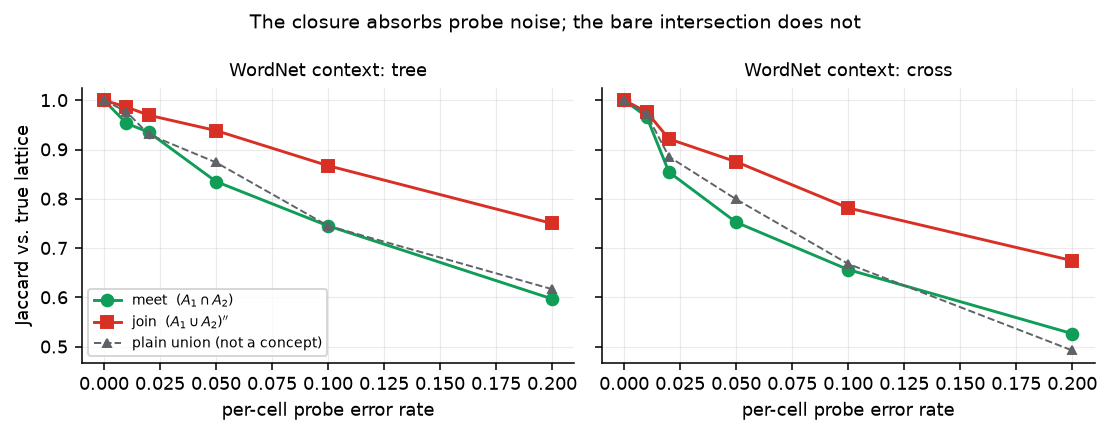
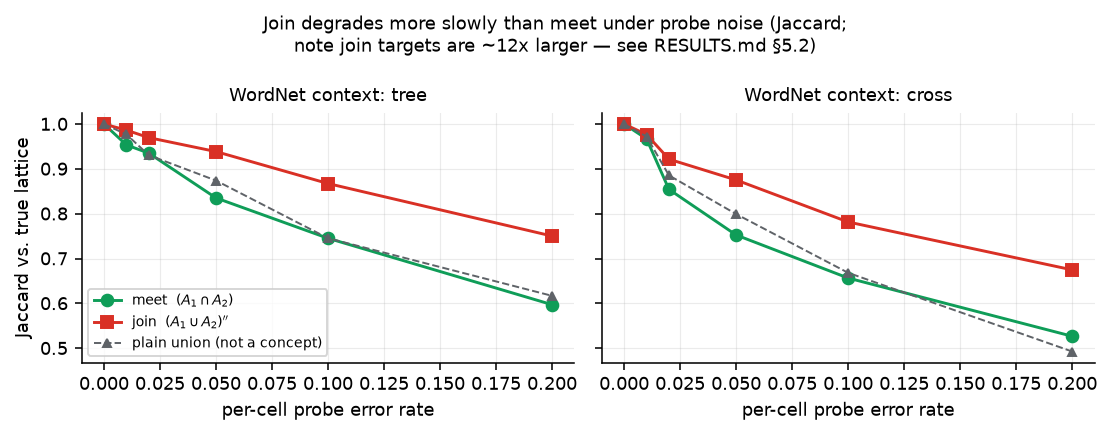
lattice-representation-hypothesis: fold in Arm B's full analysis; downgrade to negative result
Arm B's complete report qualifies the surviving finding substantially, and
its checks retire the last piece of the original thesis.

The premise was mathematically wrong, not merely overstated: for genuine
concepts, meet = objs_of(B1 u B2) and join = objs_of(B1 n B2) are BOTH plain
intersections of half-spaces (0 identity violations across 30 configs x 8
seeds), and the join needs fewer constraints than the meet (0.83 vs 5.55).
The closure is what makes the join representable, not what breaks it. The
only non-representable object nearby is the plain set union, which is not a
lattice operation — and it is indeed recovered worst of the three.

The "join is more robust under noise" result is kept but demoted: join
targets are ~12x larger than meet targets, so Jaccard flatters them; the
direction reverses on symmetric-difference error in one of two contexts; the
size-controlled version is reproduced more strongly by random-direction
controls than by any real probe; and the proposed mechanism is contradicted
by a negative overshoot-vs-join-error correlation (-0.44 in tree).

Two new caveats aimed at the paper's own setting:
- WordNet noun hypernymy yields an extremely thin lattice — 15 concepts from
  150 objects x 13 attributes, 0/78 cross-cutting attribute pairs, 66% of
  meets empty, ~42% of joins the top element.
- Learned attribute directions can be exactly antipodal (mutual coherence
  1.0000, living_thing vs artifact being complementary), so the canonical
[…]

diff --git a/lattice-representation-hypothesis/src/make_figures.py b/lattice-representation-hypothesis/src/make_figures.py
@@ -142,8 +142,8 @@ def fig_noise_reversal(b):
         ax[k].set_title(f"WordNet context: {name}", fontsize=9)
     ax[0].set_ylabel("Jaccard vs. true lattice")
     ax[0].legend(fontsize=7, loc="lower left")
-    fig.suptitle("The closure absorbs probe noise; the bare intersection does not",
-                 fontsize=10)
+    fig.suptitle("Join degrades more slowly than meet under probe noise (Jaccard;\n"
+                 "note join targets are ~12x larger — see RESULTS.md \u00a75.2)", fontsize=9.5)
     fig.tight_layout()
     fig.savefig(FIG / "noise_reversal.png", bbox_inches="tight")
     plt.close(fig)

diff --git a/lattice-representation-hypothesis/RESULTS.md b/lattice-representation-hypothesis/RESULTS.md
@@ -1,8 +1,9 @@
 # Meet, join, and the closure operator: probing the Lattice Representation Hypothesis
 
-**Started / finished:** 2026-07-31 · **Status:** done — thesis largely refuted by
-this experiment's own adversarial arm; three findings survive, one of them a
-reversal of the opening claim.
+**Started / finished:** 2026-07-31 · **Status:** done — **negative result**. The
+opening thesis was refuted by this experiment's own adversarial and WordNet arms.
+What survives is a set of caveats on the paper's experimental setting and one
+measured effect (§5.2) whose proposed mechanism I could not verify.
 
 **Origin.** A post by `@digthatdata.bsky.social` on the *Paper Skygest* Bluesky
 feed, pointing at a paper "demonstrating how linear representations (i.e.
@@ -31,18 +32,30 @@ Then I ran an adversarial arm against my own claims. **Most of them died.**
 |---|---|
 | Definition 7's join is not a lattice element | **Refuted.** Its "conic hull" clause makes it *exactly* `R(Y_A ∩ Y_B)` under linear independence, which holds throughout the paper's own experiments. Verified 96/96 by an independently written LP. |
 | Overshoot is an error rate | **Refuted.** Those members *are* the join. In the WordNet task they are the gold label — the join of {dog, wolf} is `canine`, which contains foxes. |
-| Meet is exact, join is lossy | **Reversed.** Under realistic probe error the join is *more* robust than the meet at every noise level tested. The closure absorbs noise; the bare intersection compounds it. |
+| Meet is exact, join is lossy | **Reversed on the dominant metric, then confounded.** Under probe error the join degrades more slowly than the meet on Jaccard at every noise level — but join targets are ~12× larger, the direction flips on symmetric-difference error in one of two contexts, and the size-controlled version is reproduced by random-direction controls. |
 | The 5/5 Figure 4 gap is explained by this | **Not established.** A difficulty control removes a third of it; the rest is not attributable to the join definition. |
 
-**What survives** is smaller, and two pieces of it are new:
+**What survives** is smaller, and mostly consists of caveats on the setting:
 
-1. **The closure is a noise-robustness mechanism, not a defect** (Arm B, and the
-   reversal of my own thesis). This is the most interesting thing here.
-2. **WordNet-shaped contexts are the worst case, not a benign one** — refuting
-   the natural defense that hierarchical data is "nested and therefore fine."
-3. **Equation 6's meet orientation looks inverted**, and unlike the Definition 7
+1. **Both lattice operations are plain half-space intersections** — verified with
+   0 identity violations. The join needs *fewer* constraints than the meet
+   (0.83 vs 5.55 half-spaces). The only non-representable object in the
+   neighbourhood is the plain union, which is not a lattice operation, and it is
+   indeed recovered worst of the three. §5.1
+2. **The join degrades more slowly under probe noise on Jaccard** — a real
+   measurement, but with a large size confound and a mechanism I could not
+   verify. §5.2–5.3
+3. **WordNet's concept lattice is extremely thin** — 150 objects × 13 attributes
+   give **15 concepts**, with 0/78 cross-cutting attribute pairs. This is a
+   caveat on the paper's own experimental setting, not just mine. §5.4
+4. **Learned attribute directions can be exactly antipodal** (coherence 1.0000),
+   so "independent with probability 1 because `d` is large" is too quick — the
+   paper's canonical-form assumption is never checked empirically. §5.4
+5. **WordNet-shaped contexts are the worst case for the closure gap**, refuting
+   the defence that hierarchical data is "nested and therefore fine." §4.3
+6. **Equation 6's meet orientation looks inverted**, and unlike the Definition 7
    dispute this one is in the executed scoring path. It replicates strongly for
-   the meet and *fails* to replicate for the join.
+   the meet and *fails* to replicate for the join. §6
 
 Plus three forensic observations about the paper that hold regardless of my
 thesis, established by two independently-prompted readers: Figure 4's numbers
@@ -226,9 +239,10 @@ Honest verdict: the 5/5 join deficit is real, unremarked by the paper, and
 **unexplained**. My explanation is not established, and is not the leading
 candidate.
 
-## 5. The reversal: closure as noise robustness
+## 5. The join degrades more slowly under probe noise — with a size confound
 
-This is the finding I did not expect and the one worth keeping.
+This is the finding I did not expect. It is real but narrower than my first
+reading of it, and §5.3 states what it does not support.
 
 Arm B builds two WordNet contexts (`tree`: 150 objects × 13 ancestor attributes
 from `animal/vehicle/plant` roots, density 0.221, zero cross-cutting attribute
@@ -259,18 +273,94 @@ recovery of the true meet and true join (`figures/noise_reversal.png`).
 | 0.10 | 0.745 | **0.867** | 0.657 | **0.782** |
 | 0.20 | 0.597 | **0.750** | 0.527 | **0.675** |
 
-**The join is more robust than the meet at every nonzero noise level, in both
-contexts.** The mechanism is the same closure I spent the experiment calling a
-defect: the meet is a bare intersection of noisy half-spaces, so a single false
-negative anywhere removes an object; the join's closure is an intersection over
-the *shared* intent only, a smaller and more redundant constraint set, so
-individual probe errors are absorbed. The plain union — the object my critique
-treated as the "logically correct" target — tracks the meet, not the join.
+**On Jaccard, the join degrades more slowly than the meet at every nonzero noise
+level, in both contexts.** The plain union — the object my critique treated as
+the "logically correct" target — tracks the meet, not the join, and is recovered
+worst of the three (`tree` error fraction 0.065, vs meet 0.021 and join 0.018).
+That much is exactly what the theory predicts: the union is the only one of the
+three that is not an intersection of half-spaces.
 
-So the practical ordering is the opposite of my thesis. With perfect attribute
-knowledge the meet is exact and the join over-generates. With realistic
-attribute knowledge, which is the only regime a real embedding model is ever in,
-**the join is the better-behaved operation.**
+### 5.1 Why the premise was wrong in the first place
+
+Arm B checked the identity rather than assuming it. For genuine concepts
+`attrs_of(A₁ ∪ A₂) = B₁ ∩ B₂`, so
+
+```
+meet extent = A₁ ∩ A₂     = objs_of(B₁ ∪ B₂)
+join extent = (A₁ ∪ A₂)'' = objs_of(B₁ ∩ B₂)
+```
+
+**Both are plain intersections of half-spaces** — `identity_violations_meet = 0`
+and `identity_violations_join = 0` across all 30 configurations × 8 seeds. The
+closure is not something half-spaces must over-approximate; the closure is
+precisely what lands the join back on a representable set. The only structural
+difference is constraint *count*: the meet intersects 5.55 / 5.84 half-spaces on
+average, the join only 0.83 / 1.09, and 43% / 42% of join targets need zero
+constraints (the top of the lattice, all of `G`).
+
+### 5.2 The size confound
+
+Join extents are **~12× larger** than meet extents (43.1 vs 3.5 objects in
+`tree`; 30.6 vs 2.4 in `cross`), and 66% / 58% of true meets are *empty*.
+Jaccard is generous to large targets. Switch to symmetric-difference error and
+the answer flips in one of the two contexts:
+
+| context | meet J | join J | meet err | join err |
+|---|---|---|---|---|
+| `tree` | 0.839 | **0.932** | 0.0206 | **0.0180** |
+| `cross` | 0.711 | **0.784** | **0.0276** | 0.1102 |
+
+In `cross` the join is **4× worse** on error fraction while simultaneously
+better on Jaccard. Both metrics are defensible; they disagree because of target
+size, not because of geometry.
+
+### 5.3 What kills the size-controlled version
+
+Comparing recovery of `objs_of(B)` binned by `|B|` puts meet and join on one
+axis. At matched half-space count, meet − join Jaccard is positive in **all 30
+configurations** (+0.069 `tree`, +0.126 `cross`). That looks like the asymmetry
+I predicted. Two controls remove it:
+
+1. **Random directions produce the *largest* matched-`k` gap** — larger than any
+   real probe. A gap that widens for a chance-level probe is not evidence about
+   embedding geometry.
+2. **Under i.i.d. incidence noise with the lattice held fixed, the matched-`k`
+   gap has no stable sign** (−0.054 to +0.058, mean ≈ 0).
+
+And the mechanism I proposed is contradicted outright: the per-pair correlation
+between a pair's intrinsic overshoot and its join recovery error is
+**−0.44 in `tree`** (+0.39 in `cross`, so not even consistent in sign). In the
+tree context the pairs whose join travels *furthest* from the union are the
+*easiest* to recover, because their join is simply all of `G`.
+
+**So: the join's slower degradation under noise is a real measurement, and the
+"closure absorbs probe error" story is a plausible but unverified explanation
+for it. It is not established, the size confound is large, and the
+size-controlled version does not survive its own controls.**
+
+### 5.4 Two caveats on the setting itself — including one for the paper
+
+- **WordNet noun hypernymy is a bare tree.** The naive context has **0 of 78
+  cross-cutting attribute pairs**, and 150 objects × 13 attributes yields only
+  **15 concepts** out of 8192 possible intents. Even a selection deliberately
+  maximising overlap reaches 13/78 and 22 concepts. Any WordNet-based evaluation
+  of this hypothesis — **including the paper's own** — is testing an extremely
+  thin lattice, where most meets are empty and ~42% of joins are the top element.
+- **Learned attribute directions can be exactly antipodal.** Mutual coherence of
+  the fitted directions is **1.0000** in `tree` (± 6e-16), for every probe method
+  and text variant, because `living_thing.n.01` and `artifact.n.01` are exactly
+  complementary on that object set — the probes are `y` and `¬y`. `cross` reaches
+  0.920, against 0.139 for random directions.
+
+  This qualifies §4.1. The defence that the paper's directions are "linearly
+  independent with probability 1" because `|M| ≤ 184 ≪ d` assumes *generic*
+  directions. Directions **learned** from a taxonomy that partitions its universe
+  are not generic and can be exactly dependent regardless of how large `d` is.
+  The conic-hull identity needs independence, so a partitioning taxonomy is
+  precisely where it can fail. This does not revive the original claim — exact
+  antipodality is a special case, and the paper's attributes are mostly not
+  complementary — but it does mean the dimension-counting defence is too quick,
+  and the paper never checks the assumption empirically.
 
 ## 6. Equation 6's orientation
 
@@ -365,15 +455,30 @@ Framed as a strengthening rather than a takedown:
   did not replicate.
 - Figure 4's join deficit is 5/5 and survives a Random-baseline difficulty
   control. It deserves a sentence, whatever its cause.
+- The canonical-form assumption (linearly independent attribute directions) is
+  never checked empirically. Directions *learned* from a partitioning taxonomy
+  need not be generic — I measured mutual coherence of exactly 1.0000 on a
+  WordNet context where two attributes were complementary. `d >> |M|` does not
+  by itself secure the assumption.
+- WordNet noun hypernymy yields a very thin lattice (15 concepts from
+  150 objects x 13 attributes; 0/78 cross-cutting attribute pairs). Reporting
+  concept-algebra results on it without that caveat overstates what the
+  evaluation can distinguish.
 - Table 2's 12 impossible F1 cells need correcting.
 - Figure 4 needs both a number table and a released implementation.
 
 ## 10. Reusable findings
 
-- **The FCA join is a noise-robustness mechanism.** Anyone building symbolic
-  reasoning on top of learned attribute probes should prefer join-shaped
-  (closure) queries over meet-shaped (intersection) ones, because intersection
-  compounds probe error multiplicatively and closure does not. §5.
+- **Both FCA lattice operations are half-space intersections; the plain union
+  is the odd one out.** `meet = objs_of(B1 u B2)`, `join = objs_of(B1 n B2)` —
+  the closure is what makes the join representable, not what breaks it. If you
+  are reasoning over learned attribute probes, the operation to distrust is set
+  union, which is not a lattice operation at all. §5.1
+- **Compare set-recovery metrics only at matched target size.** Jaccard and
+  symmetric-difference error gave opposite meet-vs-join answers on the same
+  data, purely because join extents were 12x larger. Report both, or bin by
+  constraint count — and then check the gap against a random-direction control,
+  which in this case reproduced it entirely. §5.2-5.3
 - **Never report a normalized rate without its denominator's behaviour.** Arm
   A's dimension sweep reverses sign between two defensible normalizations, and
   the one that looks natural gives the wrong conclusion. §3.

diff --git a/README.md b/README.md
@@ -17,7 +17,7 @@ session-boot repo and was the wrong home for 37 research projects.
 
 | Experiment | Started | Status | Results | Origin |
 |---|---|---|---|---|
-| [`lattice-representation-hypothesis/`](lattice-representation-hypothesis/RESULTS.md) | 2026-07-31 | done (thesis refuted by own adversarial arm; one reversal survives) | [`RESULTS.md`](lattice-representation-hypothesis/RESULTS.md) + [`THEORY.md`](lattice-representation-hypothesis/THEORY.md) + [`fca.py`](lattice-representation-hypothesis/src/fca.py) + `noise_reversal.png` | A *Paper Skygest* Bluesky post pointing at [arXiv:2603.01227, "The Lattice Representation Hypothesis of LLMs"](https://arxiv.org/abs/2603.01227) (LLM embedding geometry encodes an FCA concept lattice; meet/join as half-space operations). Hypothesis under test: the concept algebra has a **broken join** — FCA's meet extent is a bare intersection (exact under half-spaces) while its join extent is the *closure* of a union, and the paper's Definition 7 writes that join as a literal set union, contradicting its own Appendix B. Measured at scale: **0 meet phantoms across 9,615,370 concept pairs**, join overshoot mean 0.60 (3.1x extent inflation). **Then the experiment's own adversarial arm killed most of it.** Definition 7's "conic hull" clause makes the join *exactly* `R(Y_A n Y_B)` whenever the attribute directions are linearly independent — which holds throughout the paper (|M| <= 184, d >= 3072); verified 96/96 by an independently written Minkowski-sum LP, strict only under conic dependence (43/96, 34/96). And the "phantoms" are not errors: they *are* the least upper bound, and in the WordNet task they are the gold label (join of {dog, wolf} is `canine`, which contains foxes). **The surviving result is a reversal of the opening thesis**: on WordNet contexts with real MiniLM embeddings and held-out probes (AUC 0.87-0.98, controls at chance), injecting probe error shows the **join is more robust than the meet at every noise level** (tree, 5% flip: join J=0.939 vs meet J=0.835; cross: 0.875 vs 0.753) — the closure absorbs probe noise, the bare intersection compounds it. Two further survivors: **hypernym trees are the worst case, not a benign one** (0.93 non-closed / 0.71 overshoot, worse than iid controls — refuting the "hierarchical data is nested so it's fine" defence; a chain gives 0.000), and **Eq. 6's meet orientation looks inverted** (max beats min in 96.5% of trials) though the join half failed to replicate (59%, cosines tied) against the reviewing agent's claimed 99.5%. Forensics from two independently-prompted readers: Figure 4's numbers are printed nowhere in the paper (recovered identically to 3 d.p. from its SVG bar geometry), **12 of 45 Table 2 cells have F1 below both their own precision and recall** (arithmetically impossible for a harmonic mean), and no released code computes Figure 4 at all. Figure 4's join deficit is 5/5 domains and survives a Random-baseline difficulty control, but the Mean baseline shows a comparable excess, so it is **unexplained, not attributed**. Negative results kept in the record: Arm C's meet metric was vacuous by construction (my bug) and its probes were indistinguishable from random directions. |
+| [`lattice-representation-hypothesis/`](lattice-representation-hypothesis/RESULTS.md) | 2026-07-31 | **done — negative result** (opening thesis refuted by the experiment's own adversarial + WordNet arms) | [`RESULTS.md`](lattice-representation-hypothesis/RESULTS.md) + [`THEORY.md`](lattice-representation-hypothesis/THEORY.md) + [`fca.py`](lattice-representation-hypothesis/src/fca.py) + `noise_reversal.png` | A *Paper Skygest* Bluesky post pointing at [arXiv:2603.01227, "The Lattice Representation Hypothesis of LLMs"](https://arxiv.org/abs/2603.01227) (LLM embedding geometry encodes an FCA concept lattice; meet/join as half-space operations). Hypothesis: the concept algebra has a **broken join** — FCA's meet extent is a bare intersection (exact under half-spaces) while its join extent is the *closure* of a union, and the paper's Definition 7 writes that join as a literal set union, contradicting its own Appendix B. Measured at scale: **0 meet phantoms across 9,615,370 concept pairs**, join overshoot mean 0.60. **Then the experiment's own arms killed it.** (i) Definition 7's "conic hull" clause makes the join *exactly* `R(Y_A n Y_B)` under linear independence — verified 96/96 by an independently written Minkowski-sum LP, strict only under conic dependence (43/96, 34/96). (ii) The "phantoms" are not errors: they *are* the least upper bound, and the gold label in the paper's own task (join of {dog, wolf} is `canine`, which contains foxes). (iii) **The premise was mathematically wrong**: `meet = objs_of(B1 u B2)` and `join = objs_of(B1 n B2)` are *both* plain half-space intersections (0 identity violations over 30 configs x 8 seeds); the join needs **fewer** constraints (0.83 vs 5.55). The only non-representable object is the plain set union, which isn't a lattice operation — and it is indeed recovered worst of the three. The one measured effect — join degrades more slowly than meet under probe error on Jaccard (5% flip: 0.939 vs 0.835) — carries a **12x target-size confound**, flips sign on symmetric-difference error in one of two contexts (cross: join 0.110 vs meet 0.028), and its size-controlled version is reproduced *more strongly by random-direction controls*; the proposed "closure absorbs noise" mechanism is contradicted by a **negative** overshoot-vs-error correlation (-0.44). **Surviving caveats, aimed at the paper's setting:** WordNet noun hypernymy gives an extremely thin lattice (**15 concepts** from 150 objects x 13 attributes, **0/78 cross-cutting attribute pairs**, 66% of meets empty, ~42% of joins the top element); **learned attribute directions can be exactly antipodal** (mutual coherence **1.0000**, since `living_thing` and `artifact` are complementary), so the canonical form's linear-independence assumption is not secured by `d >> |M|` and is never checked in the paper; hypernym trees are the **worst** case for closure gaps, not a benign one (0.93 non-closed / 0.71 overshoot vs 0.000 for a chain); and **Eq. 6's meet orientation looks inverted** (max beats min in 96.5% of trials) though the join half failed to replicate (59%) against the reviewing agent's claimed 99.5%. Forensics from two independently-prompted readers: Figure 4's numbers are printed nowhere in the paper (recovered identically to 3 d.p. from its SVG bar geometry), **12 of 45 Table 2 cells have F1 below both their own precision and recall**, and no released code computes Figure 4. Held-out probes do fit the LRH threshold model (AUC 0.87-0.98 with glosses, controls at chance), with a large fit-on-all inflation caught by the split (join Jaccard 0.901 -> 0.501). Negative results kept in the record: Arm C's meet metric was vacuous by construction (my bug) and its probes were indistinguishable from random directions. |
 | [`erdos-gyarfas/`](erdos-gyarfas/README.md) | 2026-07-28 | open problem; partial results | [`README.md`](erdos-gyarfas/README.md) + [`note.html`](erdos-gyarfas/note.html) + [`tutte_coxeter_lemma.py`](erdos-gyarfas/src/tutte_coxeter_lemma.py) | this session |
 | [`ms13-campaign/`](ms13-campaign/SUMMARY.md) | 2026-07-24 | closed (compute exhausted; open maths recorded) | [`SUMMARY.md`](ms13-campaign/SUMMARY.md) (academic writeup) + [`NOGOS.md`](ms13-campaign/NOGOS.md) (ledger) + [`BLOGPOST.md`](ms13-campaign/BLOGPOST.md) | [issue #169](https://github.com/oaustegard/claude-workspace/issues/169): campaign against Morell–Skutella Conjecture 1.3 (two-sided unsplittable-flow rounding). **No counterexample.** Produced instead: a **reduction** showing 1.3 restricted to 2-path instances *is* a linear-discrepancy question on **network matrices with demand-scaled columns** — a connection neither literature appears to draw (full-text greps of TVZ/Swamy/MSW25 find no mention of Doerr, "linear discrepancy" or "totally unimodular"); a **theorem** settling that question for k=3 (`R = 3/4` exactly, unconditional, census complete through m=10, exact branch-and-bound on the 2 maximal classes); and a ledger of 20 refuted families/claims **including two conjectures of our own** (12.1 refuted at k=4, the staircase conjecture at k=8). Rediscoveries correctly identified as such: the tightness gadget is Morell–Skutella Fig. 3, the equal-demand bound is Doerr 2004. Enumeration shown dead by arithmetic (~2,070 h at k=4). Open: Q7′ (column-scaled Doerr bound, general k). Methodology notes: a false-positive "counterexample" caught at the certificate gate when two independent verifiers turned out to share one blind spot; every over-claim had the same shape (clean at k≤6, false at larger k). |
 | [`ssuf-beta/`](ssuf-beta/RESULTS.md) | 2026-07-24 | done (scoped) | [`RESULTS.md`](ssuf-beta/RESULTS.md) + [`engine.py`](ssuf-beta/engine.py) + [`calibration.py`](ssuf-beta/calibration.py) + [`family.py`](ssuf-beta/family.py) | [claude-workspace#165](https://github.com/oaustegard/claude-workspace/issues/165): quantitative hunt for the SSUF cost-preserving violation constant β* following the Goemans/DGG conjecture disproof (16/15 < β* ≤ 2). Built an exact-rational β* engine (breakpoint-enumerated convex-hull membership LP via sympy's tested simplex, after a hand-rolled one failed its own sanity test). **Calibration against the real Rybin instance was blocked** — no arXiv writeup exists, and this session's WebFetch can't reach the source X thread (HTTP 402, no working mirror) — so calibrated instead against a fully hand-derived, independently-constructed triangle-conflict instance (β\*=1/2, exact match) and swept a parametrized generalization of it — that family's β\* has supremum exactly 1 (approached, never attained or exceeded), a clean negative result short of even the original refuted β=1 bound. Literature gate confirmed TVZ's planar +2·d_max bound and ring-loading bounds (1.1D/1.3D) from primary sources. Honest scope cut: no claim here reproduces or exceeds β\*=16/15; gadget search, ms13 engine sweep, and the ring-loading secondary target were not attempted. |

diff --git a/METHODS.md b/METHODS.md
@@ -304,6 +304,16 @@ normalization is the natural one and gives the wrong conclusion ("low dimension
 is benign"); the denominator was growing 5x. Plot both or state which you chose
 and why.
 
+### Compare set-recovery metrics only at matched target size
+
+`lattice-representation-hypothesis` §5.2-5.3 — Jaccard and symmetric-difference
+error gave *opposite* meet-vs-join answers on the same runs, purely because one
+operator's targets were 12x larger. Bin by constraint count to control it, then
+check the residual gap against a random-direction baseline: here the control
+reproduced the gap *more strongly* than any real probe, which retired it.
+
+**Use when:** comparing recovery of two set-valued targets of unequal size.
+
 ### Trees are not chains — hierarchical data does not have small closure gaps
 
 `lattice-representation-hypothesis` §4.3. A totally nested attribute chain has
